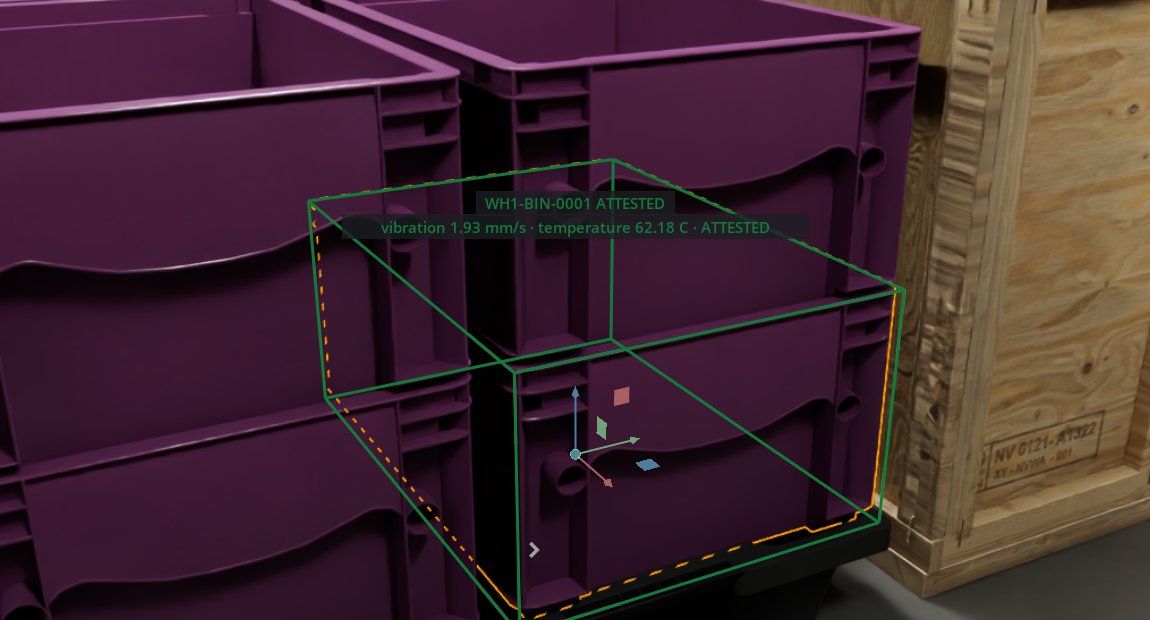
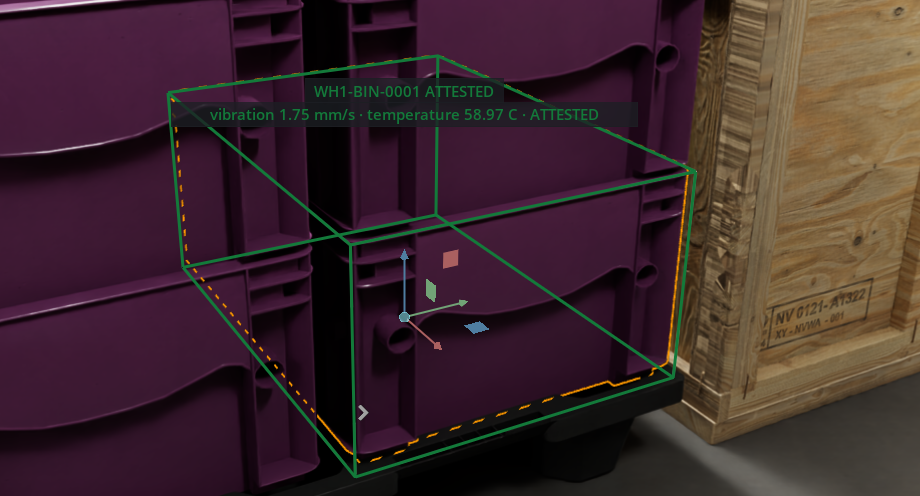
Show the bin in both states, from the same camera

diff --git a/index.html b/index.html
@@ -47,8 +47,13 @@
     <p>This is a warehouse in a 3D viewer. Select a bin and a small badge appears above it. The badge checks the bin's record and its recent sensor readings against what Lune committed, and says whether they still match.</p>
 
     <figure class="lead">
-      <img class="shot" src="img/lead.png" width="1150" height="620" alt="The Lune badge over a bin in a 3D warehouse scene: WH1-BIN-0001 ATTESTED, with the readings from the past minute under it and a green box around the bin">
+      <img class="shot" src="img/lead.png" width="920" height="496" alt="The Lune badge over a bin in a 3D warehouse scene: WH1-BIN-0001 ATTESTED in green, with the readings from the past minute under it and a green box around the bin">
       <figcaption>Bin WH1-BIN-0001 in the warehouse scene. The badge reads <span class="pill good">ATTESTED</span> and shows the bin's recent vibration and temperature readings under it, and the bin is boxed in the colour of the verdict.</figcaption>
+    </figure>
+
+    <figure class="lead">
+      <img class="shot" src="img/lead-changed.png" width="920" height="496" alt="The same bin from the same camera after one field of its record was edited: WH1-BIN-0001 NOT VERIFIED in red, no readings line, and a red box around the bin">
+      <figcaption>The same bin after one field of its record was edited in the viewer. The badge reads <span class="pill bad">NOT VERIFIED</span>, the box turns red, and the readings line is gone.</figcaption>
     </figure>
 
     <div class="panels">
